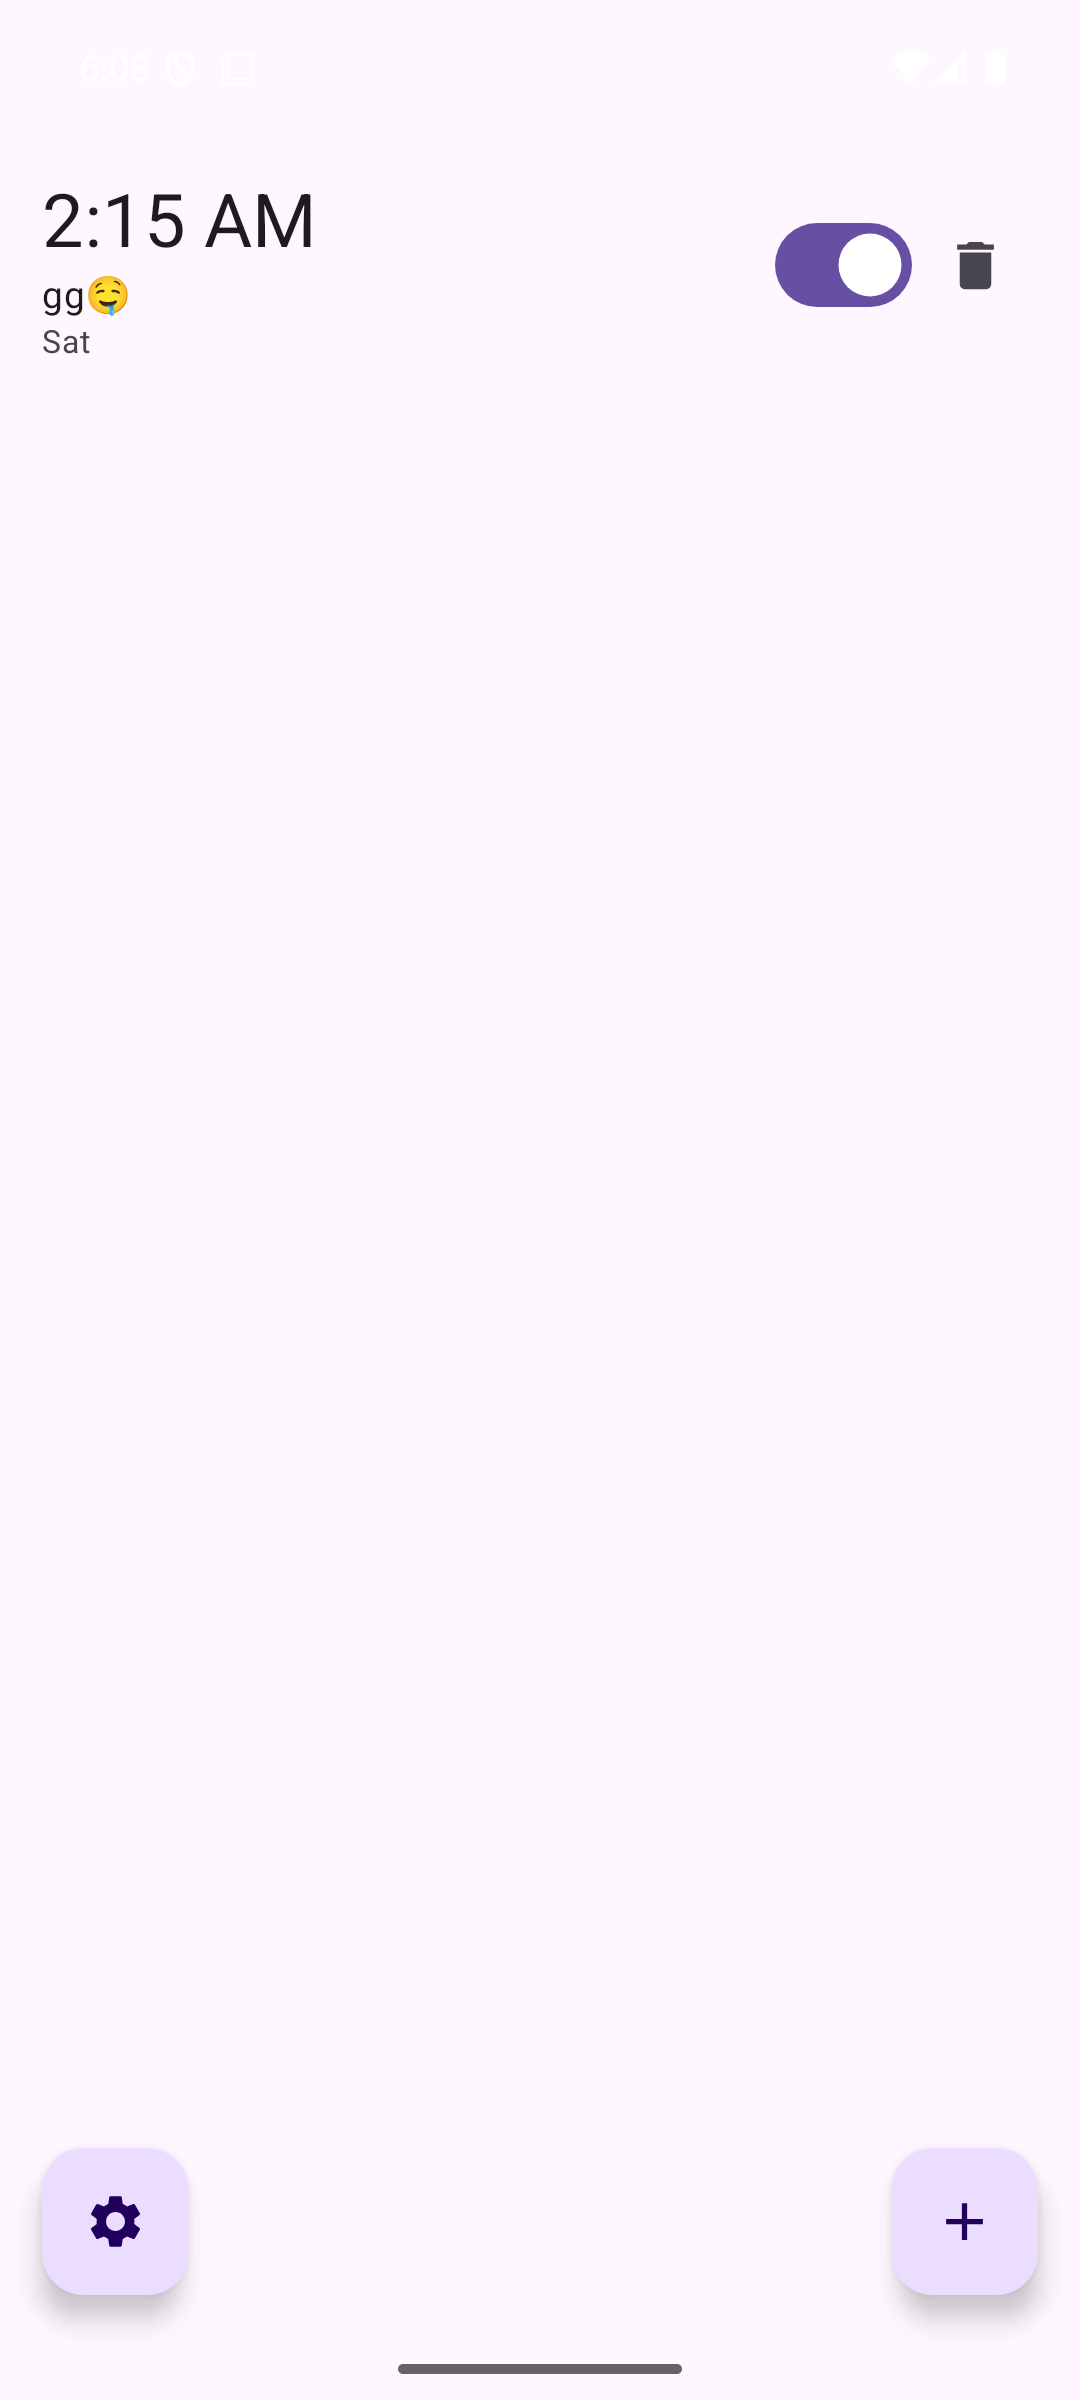
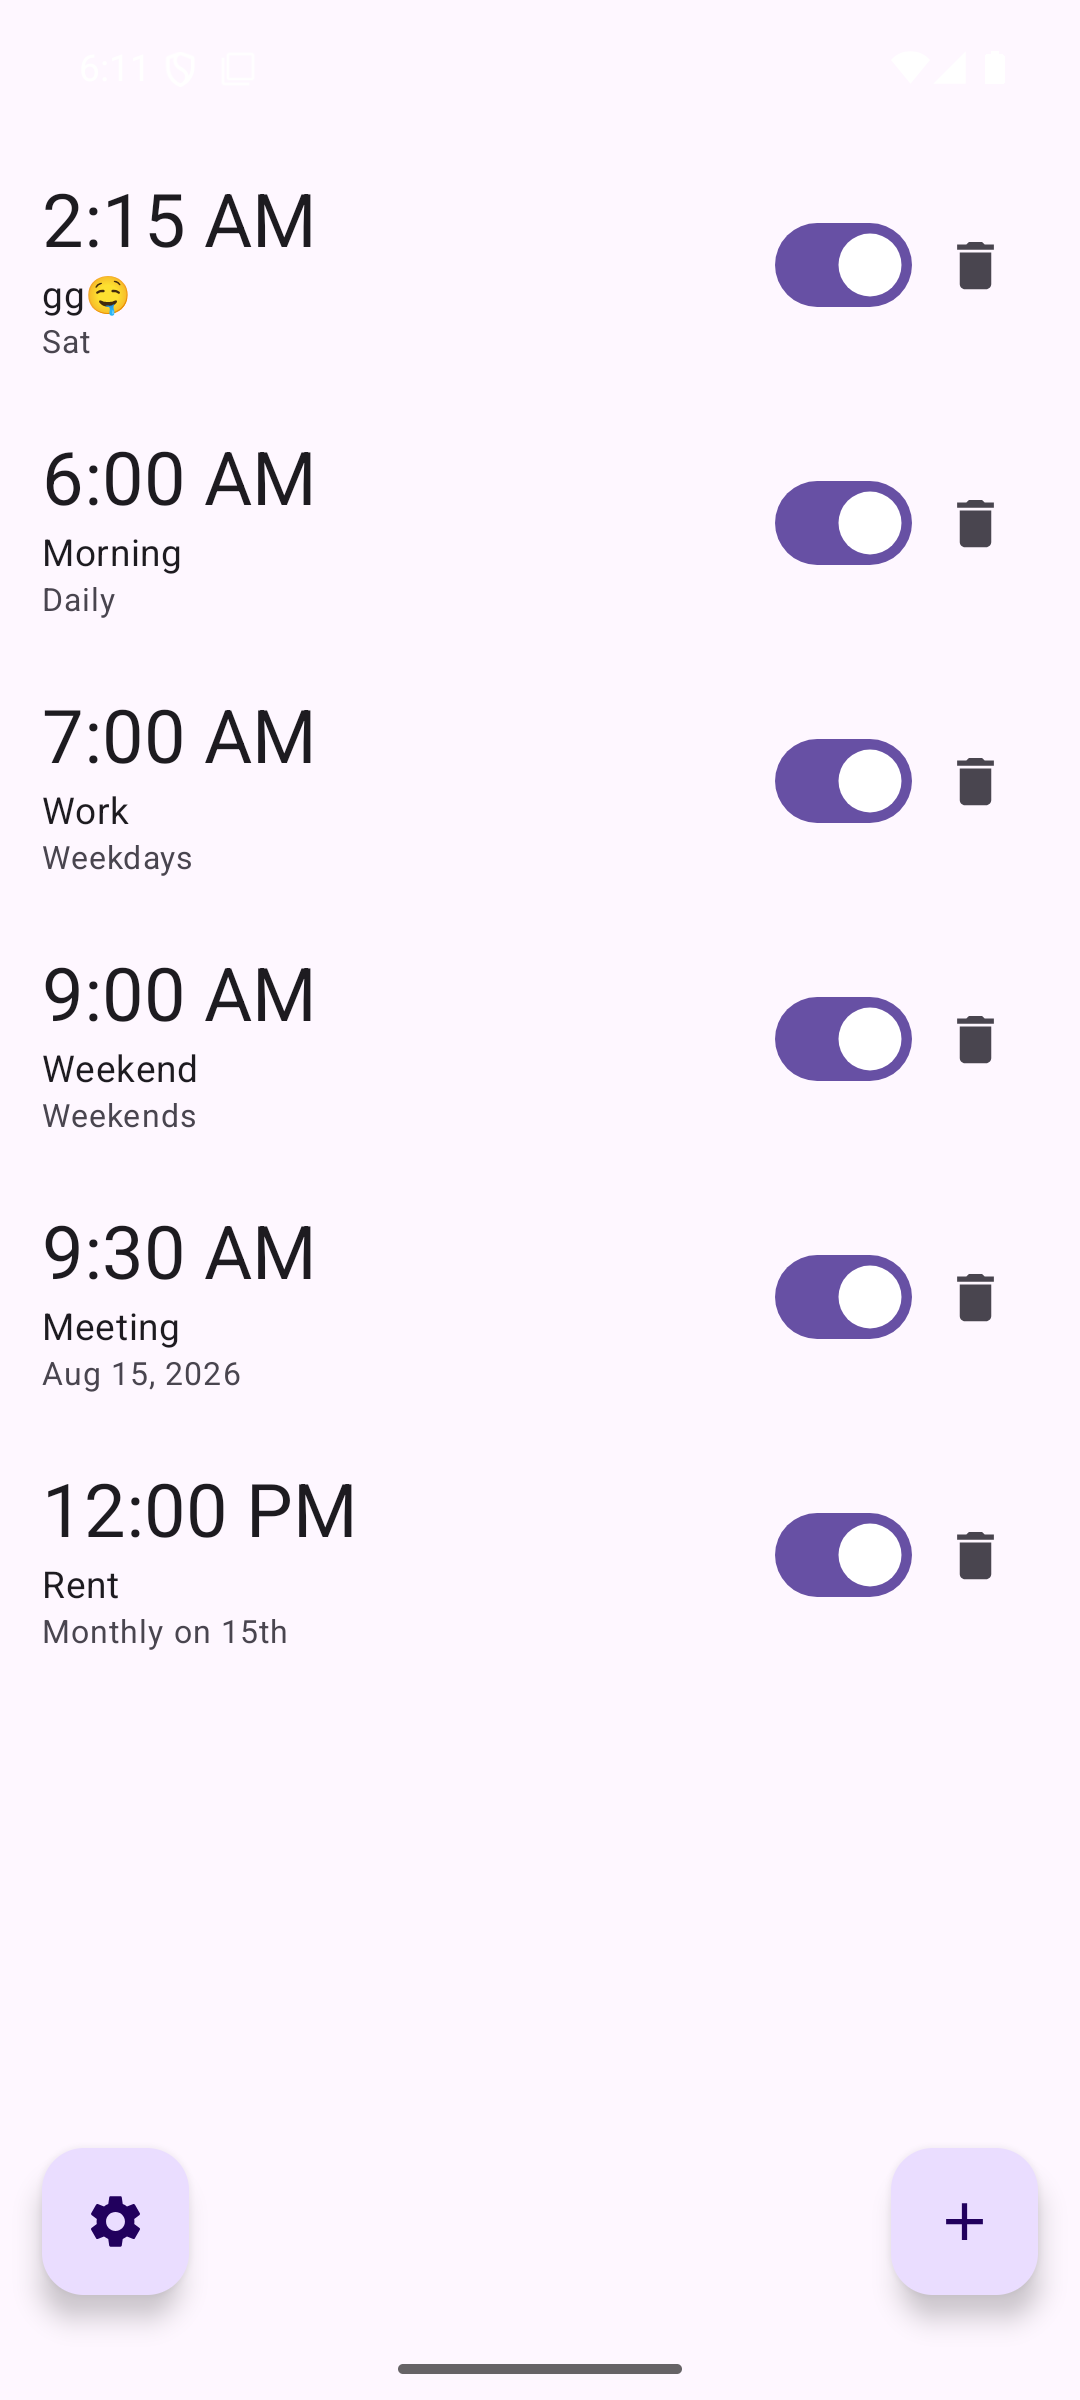
Rebuild screenshots with test alarms and pickers

diff --git a/README.md b/README.md
@@ -13,3 +13,7 @@ Build: `./gradlew assembleDebug`
 
 <img src="screenshots/main.png" width="280" alt="Alarm list">
 <img src="screenshots/add-alarm-dialog.png" width="280" alt="Add alarm dialog">
+<img src="screenshots/time-picker.png" width="280" alt="Time picker">
+<img src="screenshots/date-picker.png" width="280" alt="Date picker">
+<img src="screenshots/repeat-options.png" width="280" alt="Repeat options">
+<img src="screenshots/weekly-days.png" width="280" alt="Weekly days picker">
